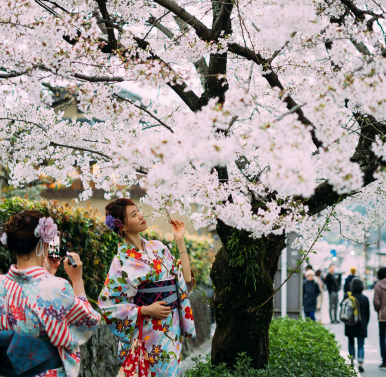
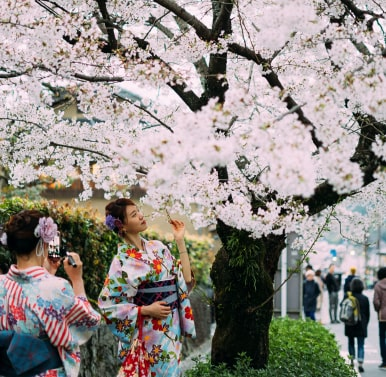
Compressing images and added smooth scroll

diff --git a/index.html b/index.html
@@ -6,7 +6,7 @@
     <meta name="viewport" content="width=device-width, initial-scale=1.0">
     <link rel="stylesheet" href="styles/main.css">
     <link href='http://fonts.googleapis.com/css?family=Lato&subset=latin,latin-ext' rel='stylesheet' type='text/css'>
-    <title>Document</title>
+    <title>Odigo</title>
 </head>
 <body>
     <!-- Header -->
@@ -21,16 +21,16 @@
                 <nav class="header__nav">
                     <ul class="header__list">
                         <li class="header__item">
-                            <a href="#" class="header__link">Articles</a>
+                            <a href="#articles" class="header__link js-scroll">Articles</a>
                         </li>
                         <li class="header__item">
-                            <a href="#" class="header__link">Locations</a>
+                            <a href="#locations" class="header__link js-scroll">Locations</a>
                         </li>
                         <li class="header__item">
-                            <a href="#" class="header__link">Videos</a>
+                            <a href="#videos" class="header__link js-scroll">Videos</a>
                         </li>
                         <li class="header__item">
-                            <a href="#" class="header__link">Sign in</a>
+                            <a href="#sign-in" class="header__link js-scroll">Sign in</a>
                         </li>
                     </ul>
                     <div class="header__nav-close">
@@ -50,7 +50,7 @@
     <!-- Content -->
     <main>
         <!-- Hero -->
-        <section class="hero">
+        <section class="hero" id="sign-in">
             <div class="wrapper">
                 <div class="hero__wrapper">
                     <h1 class="hero__title">
@@ -160,7 +160,7 @@
         </section>
 
         <!-- Featured -->
-        <section class="Featured">
+        <section class="Featured" id="articles">
             <div class="wrapper-lg">
                 <div class="Featured__tour">
                     <div class="Featured__image">
@@ -187,7 +187,7 @@
         </section>
 
         <!-- Places -->
-        <section class="Places">
+        <section class="Places" id="locations">
             <div class="wrapper-lg">
                 <h1 class="Places__title section-title">Today top places to visit</h1>
                 <div class="Places__cards">
@@ -304,7 +304,7 @@
         </section>
 
         <!-- Videos -->
-        <section class="Videos">
+        <section class="Videos" id="videos">
             <div class="Videos__wrapper">
                 <div class="Videos__item"></div>
                 <iframe class="Videos__element" src="https://www.youtube.com/embed/fjs_aTykcw0" title="YouTube video player" frameborder="0" allow="accelerometer; autoplay; clipboard-write; encrypted-media; gyroscope; picture-in-picture" allowfullscreen></iframe>

diff --git a/scripts/main.js b/scripts/main.js
@@ -19,3 +19,44 @@
         menu.classList.remove("header__nav_active");
     });
 }());
+
+
+// Scroll to anchors
+(function () {
+
+    const smoothScroll = function (targetEl, duration) {
+        const headerElHeight =  document.querySelector('.header').clientHeight;
+        let target = document.querySelector(targetEl);
+        let targetPosition = target.getBoundingClientRect().top - headerElHeight;
+        let startPosition = window.pageYOffset;
+        let startTime = null;
+    
+        const ease = function(t,b,c,d) {
+            t /= d / 2;
+            if (t < 1) return c / 2 * t * t + b;
+            t--;
+            return -c / 2 * (t * (t - 2) - 1) + b;
+        };
+    
+        const animation = function(currentTime){
+            if (startTime === null) startTime = currentTime;
+            const timeElapsed = currentTime - startTime;
+            const run = ease(timeElapsed, startPosition, targetPosition, duration);
+            window.scrollTo(0,run);
+            if (timeElapsed < duration) requestAnimationFrame(animation);
+        };
+        requestAnimationFrame(animation);
+
+    };
+
+    const scrollTo = function () {
+        const links = document.querySelectorAll('.js-scroll');
+        links.forEach(each => {
+            each.addEventListener('click', function () {
+                const currentTarget = this.getAttribute('href');
+                smoothScroll(currentTarget, 1000);
+            });
+        });
+    };
+    scrollTo();
+}());

diff --git a/styles/main.css b/styles/main.css
@@ -748,5 +748,6 @@ body {
   }
 }
 /*# sourceMappingURL=main.css.map */
+/*# sourceMappingURL=main.css.map */
 
 /*# sourceMappingURL=main.css.map */
